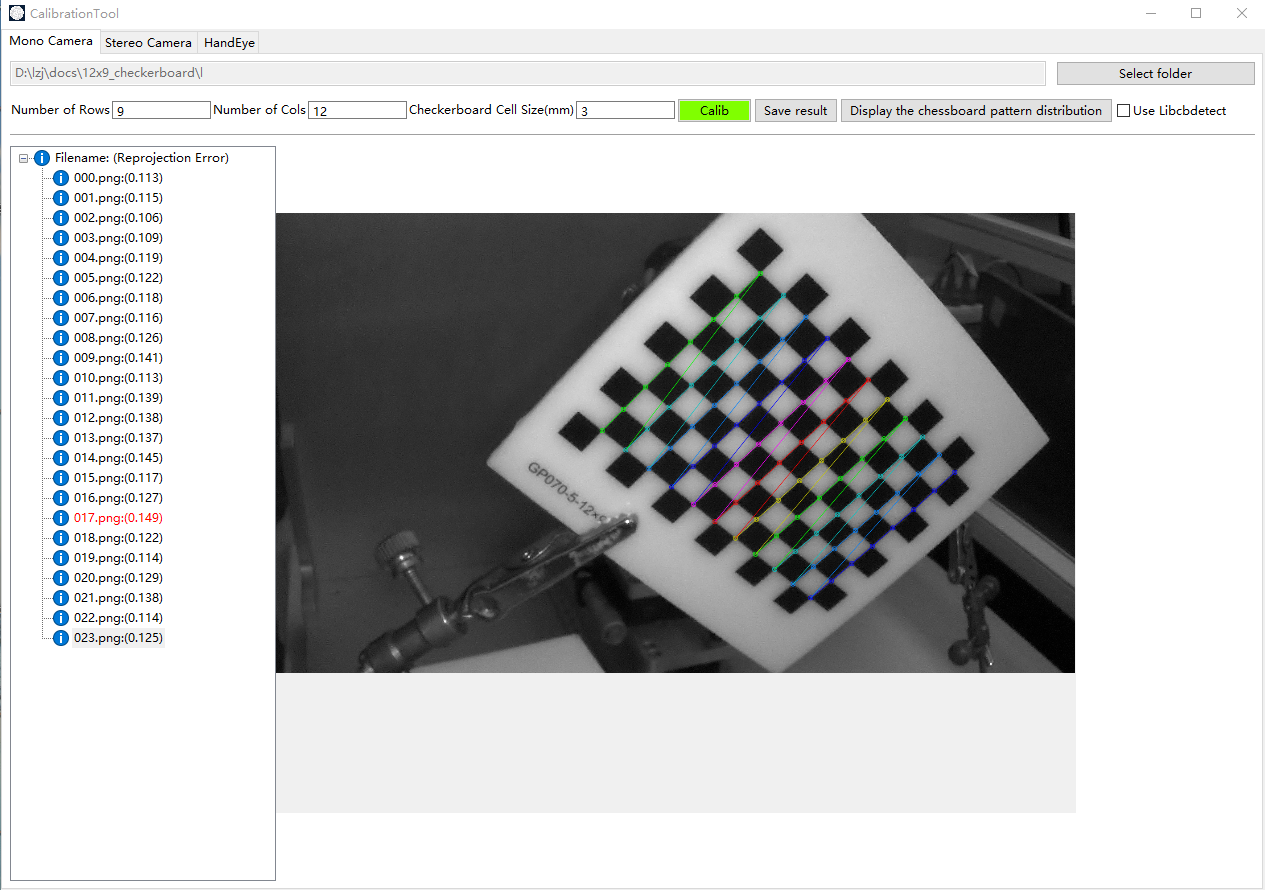
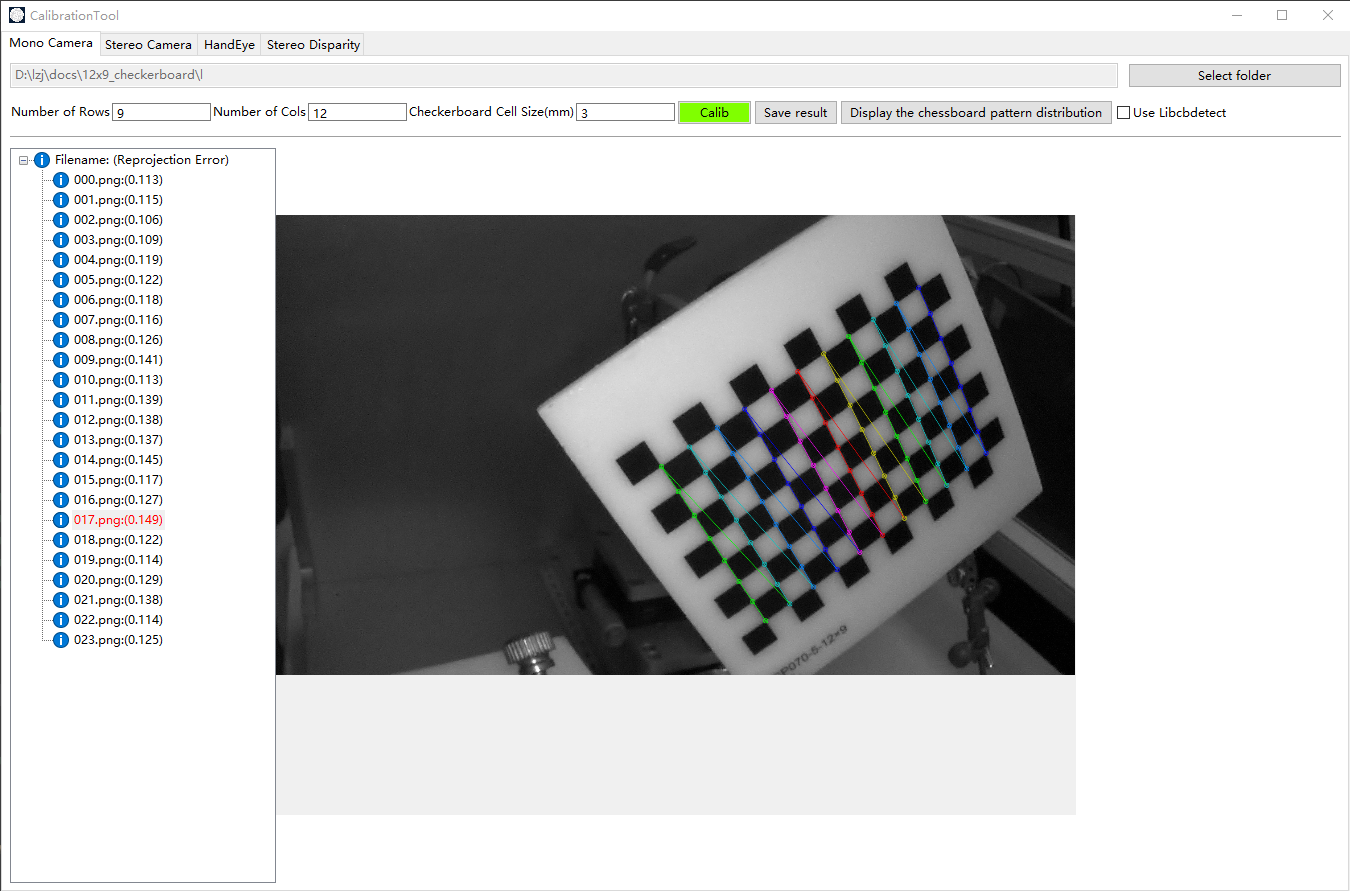
update screenshot images and readme

diff --git a/readme.md b/readme.md
@@ -1,8 +1,9 @@
 # Camera Calibration Tool on Windows/MacOS
 ## support Mono/Stereo/HandEye/Disparity calibration
 ![screenshot_mono](elements/screenshot1.png)  
-![screenshot_stereo](elements/screenshot2.png)
-![screenshot_handeye](elements/screenshot3.png)
+![screenshot_stereo](elements/screenshot2.png) 
+![screenshot_handeye](elements/screenshot3.png) 
+![screenshot_disparity](elements/screenshot4.png)
 ## TODO
 - [x]   Support FOV < 80
 - [ ]   Support WideAngle (80~110)
